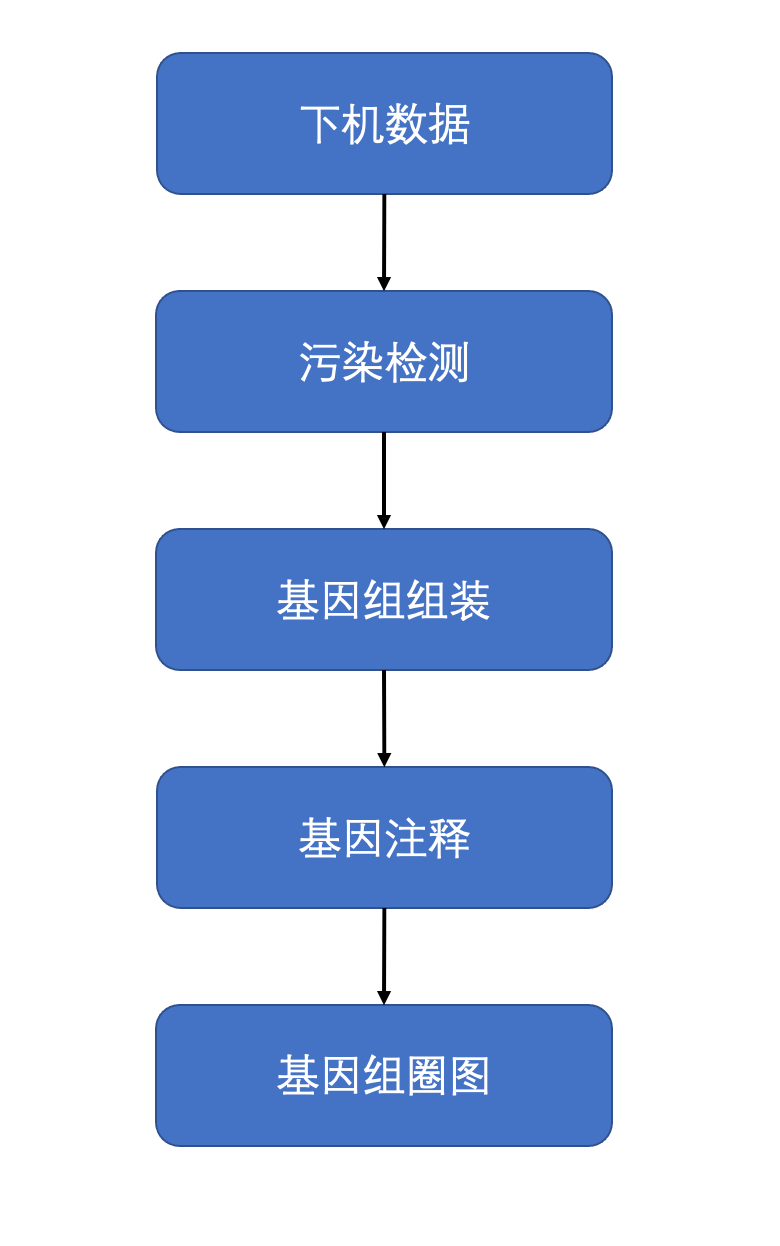
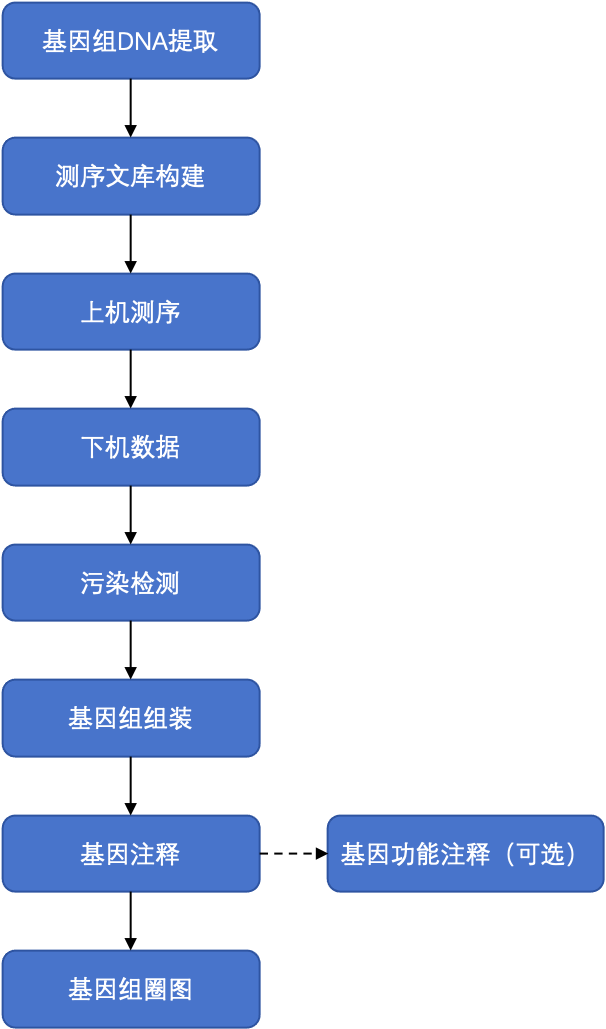
报告模版修改 添加实验描述部分

diff --git a/bin/06_report/demo_template.html b/bin/06_report/demo_template.html
@@ -565,7 +565,7 @@ pre {
                         </li>
                         <li>
                             <a href="#b">
-                                2 分析流程
+                                2 检测流程
                             </a>
                         </li>
                         <li>
@@ -602,39 +602,59 @@ pre {
 
                             </ul>
                         </li>
+
                         <li>
-                            <a href="#d">
-                                4 分析方法
+                            <a href="#g">
+                                4 实验方法
                             </a>
                             <ul class="nav">
                                 <li>
-                                    <a href="#d_1">4.1 数据污染检测</a>
+                                    <a href="#g_1">4.1 基因组DNA提取及质控</a>
                                 </li>
 
                                 <li>
-                                    <a href="#d_2">4.2 基因组组装</a>
+                                    <a href="#g_2">4.2 Nanopore文库构建</a>
+                                </li>
+                                <li>
+                                    <a href="#g_3">4.3 Nanopore测序</a>
+                                </li>
+                                
+                            </ul>
+                        </li>
+
+                        <li>
+                            <a href="#d">
+                                5 分析方法
+                            </a>
+                            <ul class="nav">
+                                <li>
+                                    <a href="#d_1">5.1 数据污染检测</a>
+                                </li>
+
+                                <li>
+                                    <a href="#d_2">5.2 基因组组装</a>
                                     <ul class="nav">
-                                        <li><a href="#d_2_1">4.1.1 基因组组装</a></li>
-                                        <li><a href="#d_2_2">4.1.2 基因组测序深度分析</a></li>
+                                        <li><a href="#d_2_1">5.1.1 基因组组装</a></li>
+                                        <li><a href="#d_2_2">5.1.2 基因组测序深度分析</a></li>
                                     </ul>
                                 </li>
                                 <li>
-                                    <a href="#d_3">4.3 基因组结构注释</a>
+                                    <a href="#d_3">5.3 基因组结构注释</a>
                                 </li>
                                 <li>
-                                    <a href="#d_4">4.4 基因组圈图</a>
+                                    <a href="#d_4">5.4 基因组圈图</a>
                                 </li>
                             </ul>
                         </li>
                         <li>
                             <a href="#e">
-                                5 软件及参数
+                                6 软件及参数
                             </a>
                         </li>
 
                         <li>
                             <a href="#f">
-                                6 联系我们
+                                7 联系我们
                             </a>
                         </li>
 
@@ -671,14 +691,14 @@ pre {
                         
                     </div>
 
-                    <!--b 分析流程-->
+                    <!--b 检测流程-->
                     <div class="page">
-                        <h3 id="b" class="page-header">2 分析流程</h3>
+                        <h3 id="b" class="page-header">2 检测流程</h3>
                         <div class="content_img">
-                            <img id="pipeline_png" height='450' alt="分析流程图">
+                            <img id="pipeline_png" height='450' alt="检测流程图">
                         </div>
                     </div>
-                    <h6>图2.1 生物信息分析流程图</h6>
+                    <h6>图2.1 检测流程图</h6>
 
 
                     <!-- 分析结果 -->
@@ -756,34 +776,52 @@ pre {
 
                     </div>
 
+                    <div class="page">
+                        <h3 id="g" class="page-header">4 实验方法</h3>
+                        <h4 id="g_1">4.1 基因组DNA提取及质控</h4>
+                        <p>
+                            使用康为世纪细菌基因组DNA提取试剂盒进行提取，用琼脂糖凝胶电泳检测基因组DNA完整性，Nanodrop检测DNA纯度，使用Qubit检测DNA浓度，评估样本质量是否适合进行后续实验。
+                        </p>
+                        <h4 id="g_2">4.2 Nanopore文库构建</h4>
+                        <p>
+                            提取好的基因组DNA进行纯化后，直接连接barcode及测序接头完成测序文库构建。
+                        </p>
+                        <h4 id="g_3">4.3 Nanopore测序</h4>
+                        <p>
+                            将构建好的测序文库加载到测序芯片上，使用Oxford Nanopore Technologies纳米孔测序平台进行测序。其测序核心原理是基于生物蛋白形成的纳米级孔道：当带负电的核酸链在电场驱动下穿过孔道时，不同碱基（A/T/C/G）或化学修饰（如甲基化）会因空间构型及带电特性的差异，对穿过纳米孔的离子流产生特异性阻碍，形成独特的电流信号波动。这些实时记录的电流变化经机器学习算法解码后，即可转化为对应的核酸序列。测序芯片上有上千纳米孔，DNA分子加载到芯片上后，即可被纳米孔捕获，在解旋酶的作用下匀速通过纳米孔。
+                        </p>
+
+                    </div>
+
+
                     <!-- 分析方法 -->
                     <div class="page">
-                        <h3 id="d" class="page-header">4 分析方法</h3>
+                        <h3 id="d" class="page-header">5 分析方法</h3>
                         
-                        <h4 id="d_1">4.1 数据污染检测</h4>
+                        <h4 id="d_1">5.1 数据污染检测</h4>
                         <p>
                             微生物通常生长复杂的微环境中，提取部分寄生性微生物的DNA时，有可能混入宿主或者环境内其他生物的DNA， 因此需要对数据进行污染评估。使用质控后的reads，使用kraken2软件与nt库进行比对，统计占比top10的物种。
                         </p>
-                        <h4 id="d_2">4.2 基因组组装</h4>
-                        <h5 id="d_2_1">4.2.1 基因组组装</h5>
+                        <h4 id="d_2">5.2 基因组组装</h4>
+                        <h5 id="d_2_1">5.2.1 基因组组装</h5>
                         <p>
                             质控或者去除宿主污染之后的clean data文件使用组装软件进行基因组的组装。可以选择Flye，
                             raven或者Canu软件进行基因组组装，使用medaka软件对基因组的矫正。矫正后的基因组使用自编脚本检测是否为环状基因组，去除末端的overlap重复区域的冗余部分，
                             对成环的基因组检测起始基因，固定起点位置，从而得到最终的基因组序列。
                         </p>
 
-                        <h5 id="d_2_2">4.2.2 基因组测序深度分析</h5>
+                        <h5 id="d_2_2">5.2.2 基因组测序深度分析</h5>
                         <p>
                             将质控后的fastq格式的reads文件的用minimap2软件比对到组装好的基因组上，
                             用samtools 软件的depth功能统计各个位点的测序深度，并以1000 bp为窗口计算
                             各个窗口的平均测序深度并作图。可以根据此图判断数据的测序深度。
                         </p>
 
-                        <h4 id="d_3">4.3 基因组结构注释</h4>
+                        <h4 id="d_3">5.3 基因组结构注释</h4>
                         <p>
                             使用Bakata 对组装的基因组进行结构注释， 结果包含 CDs，tRNA，rRNA，ncRNA等。
                         </p>
-                        <h4 id="d_4">4.4 基因组圈图</h4>
+                        <h4 id="d_4">5.4 基因组圈图</h4>
                         <p>
                             首先将基因组序列，基因预测及非编码 RNA 的预测信息整合成标准的 GBK（GenBank）格式文件，
                             然后采用 circos软件绘制该基因组的圈图。从内到外，第一圈代表刻度；第二圈代表 GC Skew；
@@ -794,9 +832,9 @@ pre {
 
                     <!-- 软件 -->
                     <div class="page">
-                        <h3 id="e" class="page-header">5 软件及参数</h3>
+                        <h3 id="e" class="page-header">6 软件及参数</h3>
                         <p>生物信息分析所用的软件及数据库信息如下。</p>
-                        <h6> Table5.1 分析所用软件信息</h6>
+                        <h6> Table6.1 分析所用软件信息</h6>
                         <div class="content_table">
                             {{software_table | safe}}
                         </div>
